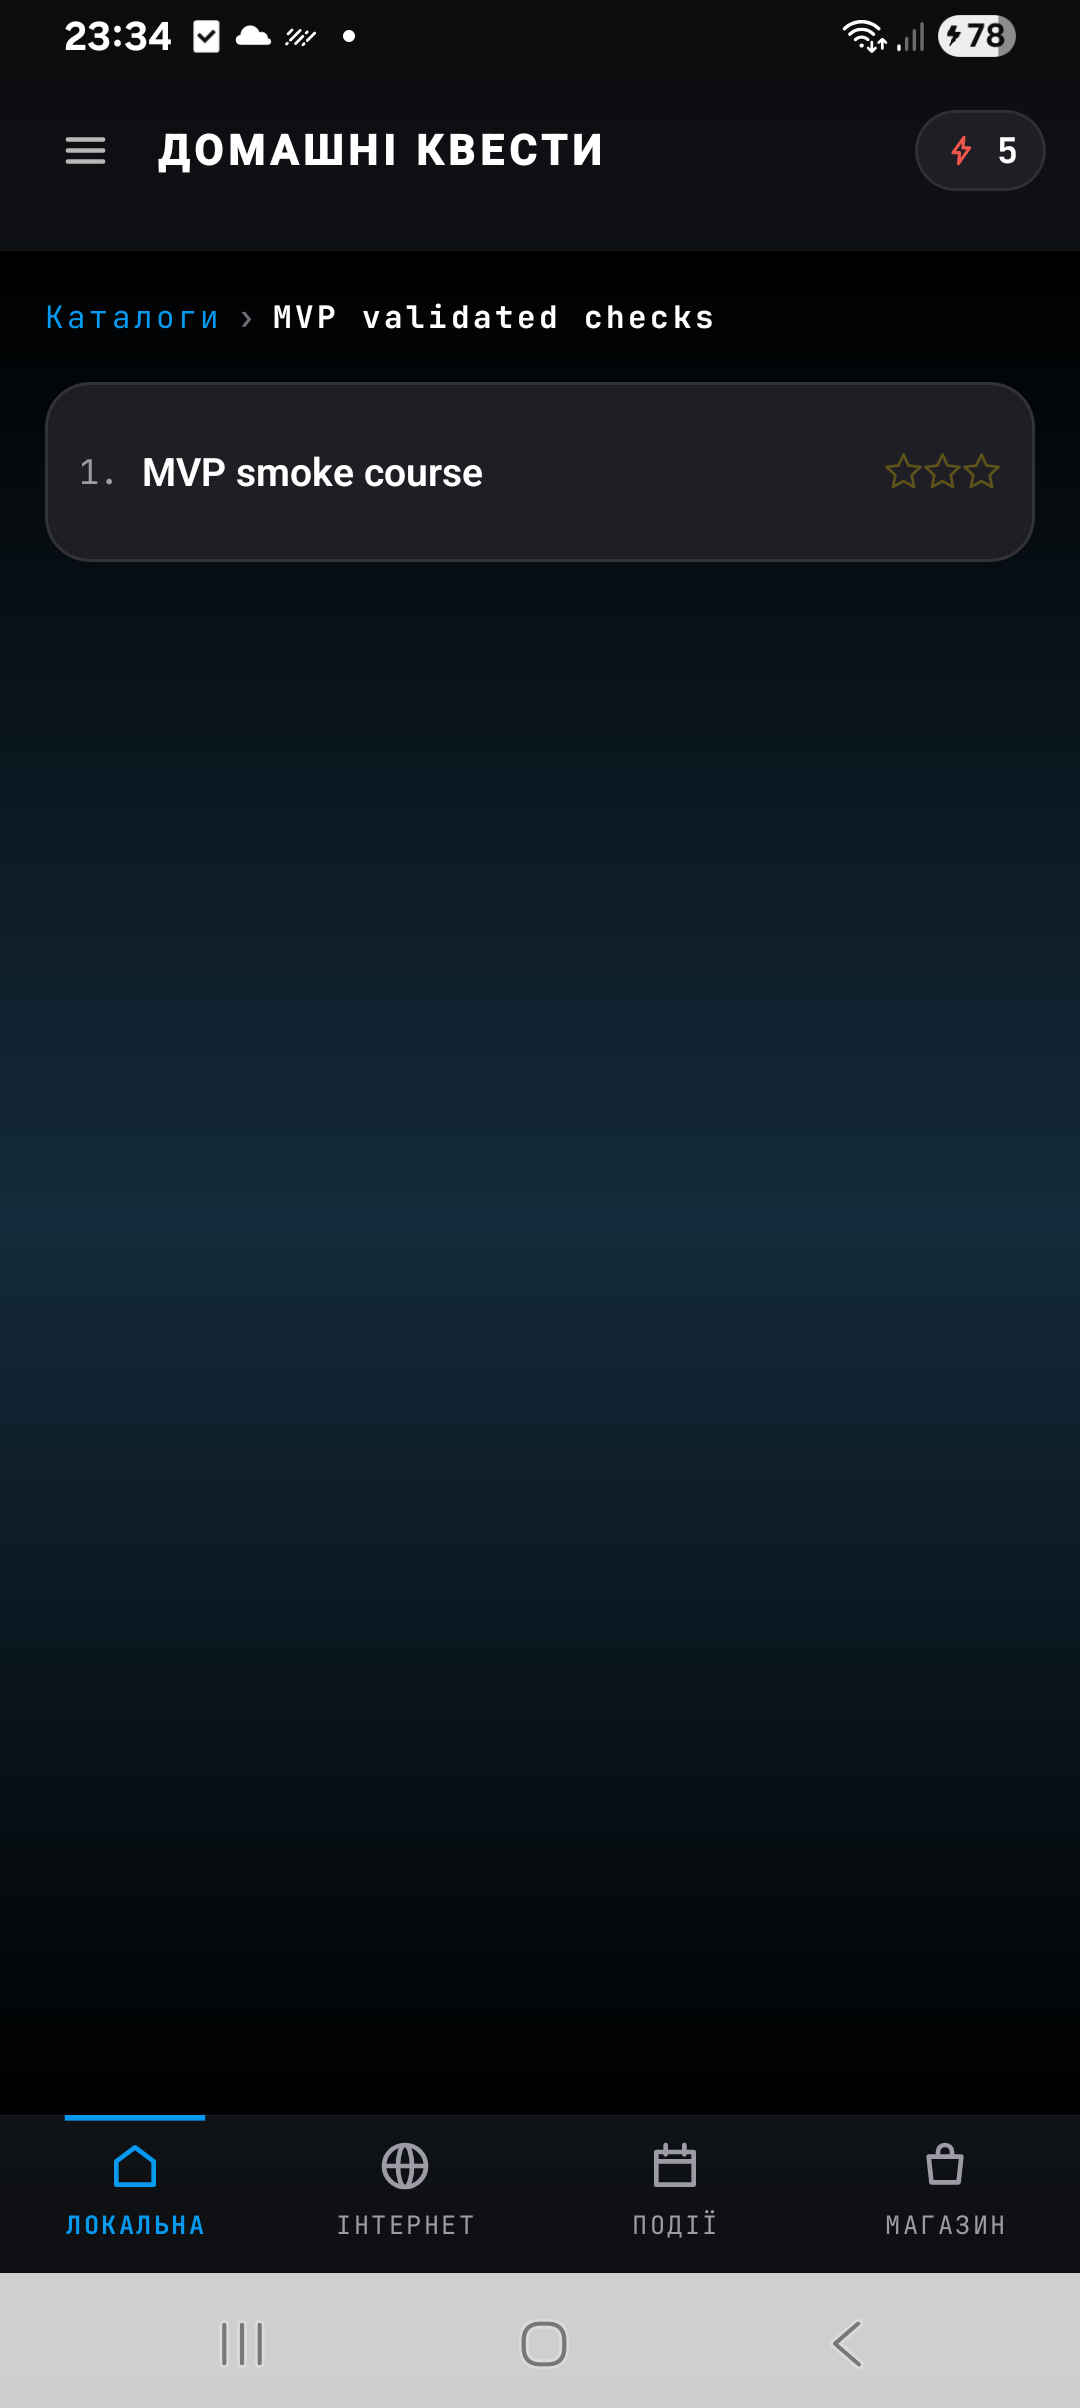
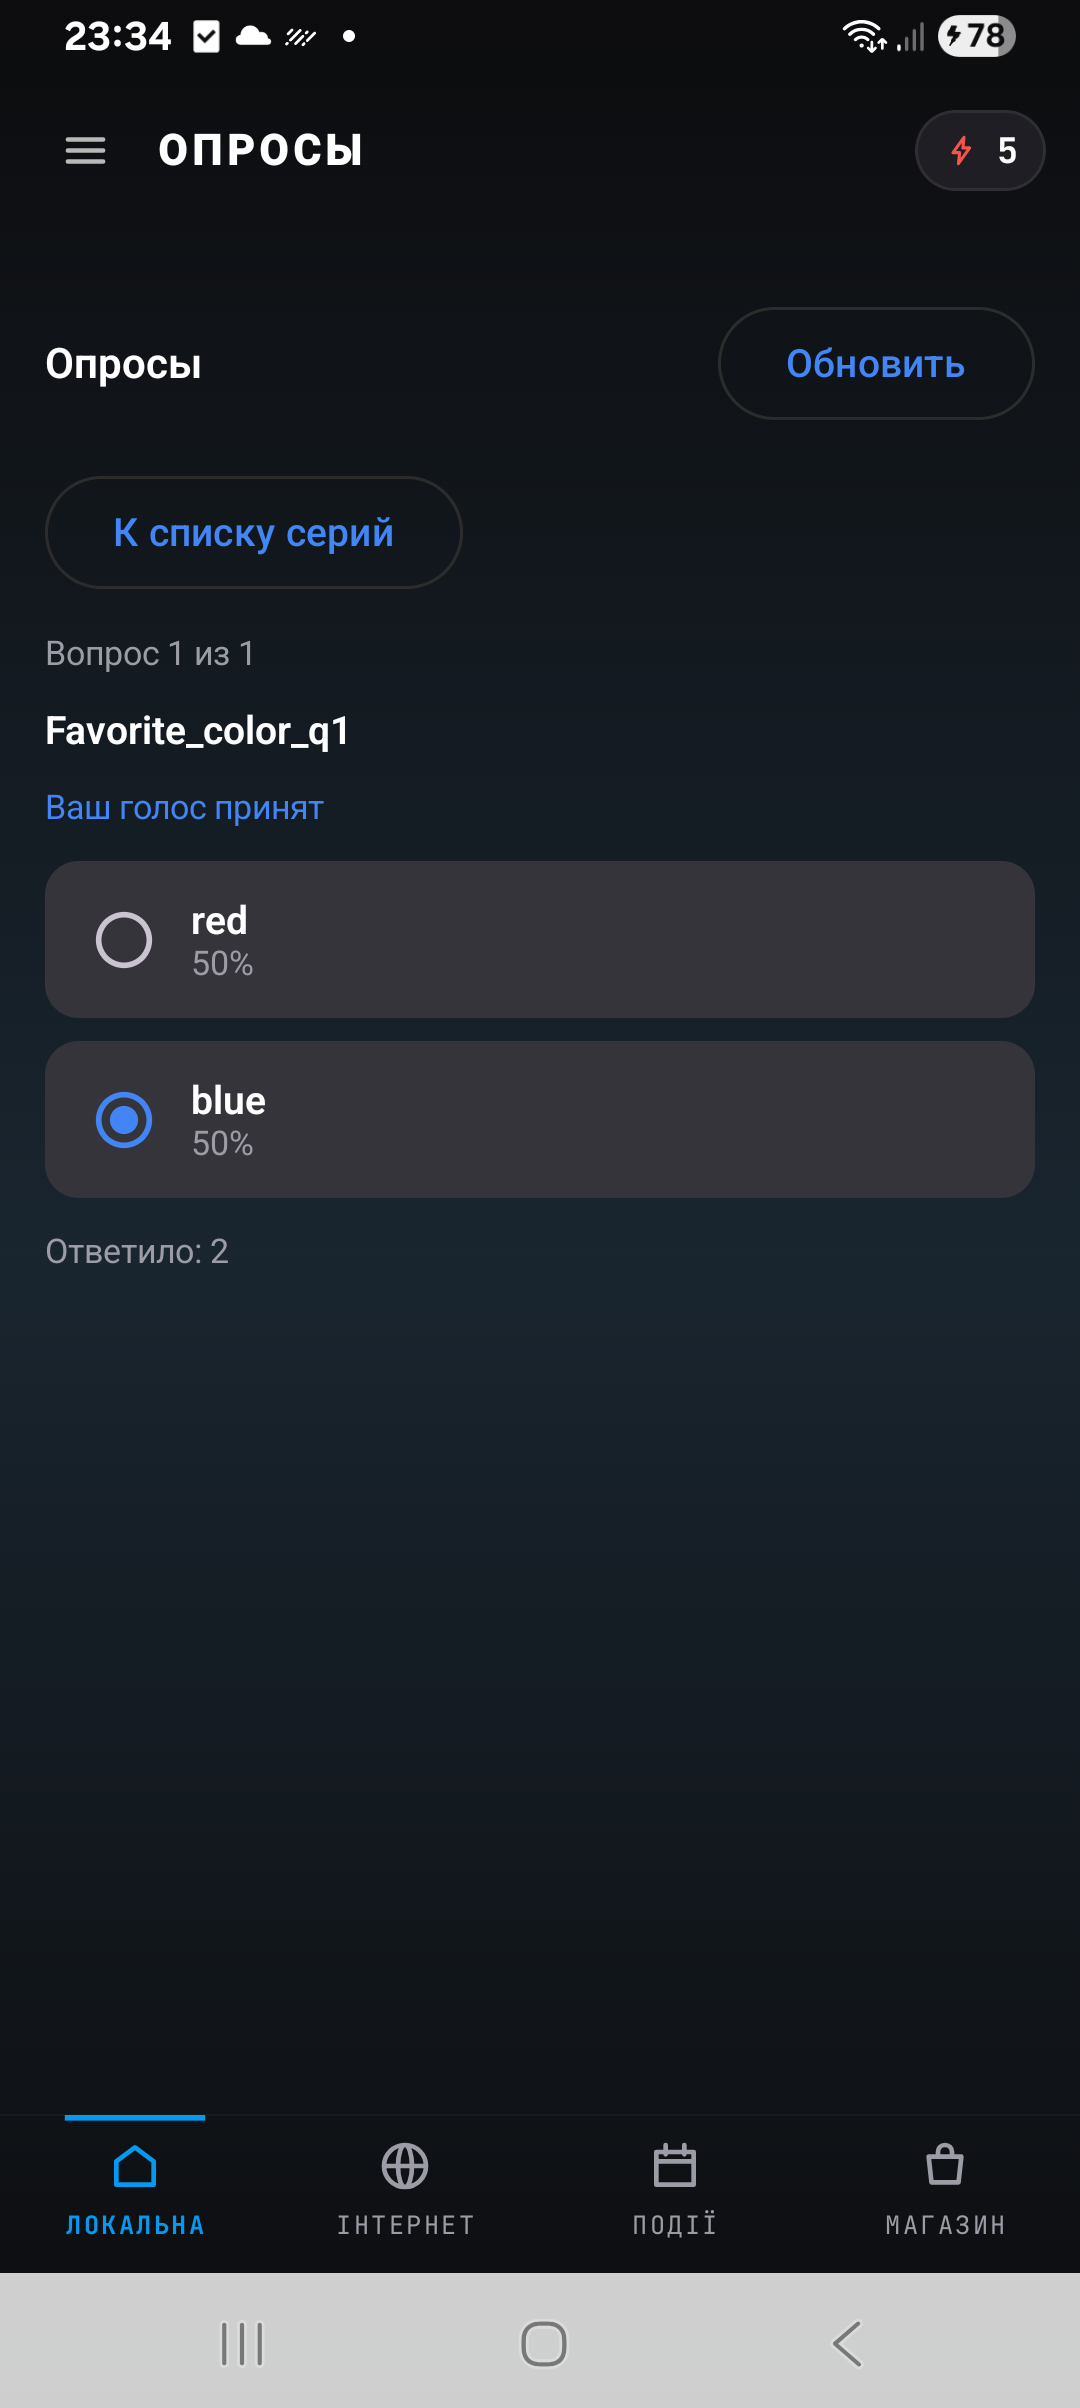
fix(polls): vote mutation key carries the respondent (UX-O7 §2 amendment) — second participant no longer denied; two-device 8.4 verified 50/50

diff --git a/docs/agents/evidence/2026-10-18-pixel-social/polls/README.md b/docs/agents/evidence/2026-10-18-pixel-social/polls/README.md
@@ -1,8 +1,8 @@
 # Poll series run (8.4) — device proof on TWO phones — 2026-10-18 late evening
 
 Devices: Pixel 10 Pro (UserG9FY6E, uid VLqW…) + Samsung A14 SM-A145F (fresh install of the
-same 4.0.0-isolated build d0c59bfc…, new anonymous account UserOVDSRF), both over the live
-device→VPS transport. Evidence shots 01–08 in this directory.
+same 4.0.0-isolated build, new anonymous account UserOVDSRF), both over the live
+device→VPS transport. Evidence shots 01–09 in this directory.
 
 ## What PASSED
 
@@ -21,30 +21,31 @@ device→VPS transport. Evidence shots 01–08 in this directory.
 - **Second participant, second account, second device** (08): the Samsung (fresh anonymous
   uid) saw the same series, selected blue, voted.
 
-## What FAILED — real defect (blocks 8.4 completion)
+## What FAILED first — real defect (was blocking 8.4 completion)
 
-The Samsung's vote never lands: the outbox attempt returns «Unknown», and the server's
-idempotency gate denies it with **"mutationId belongs to another account"**
+The Samsung's vote never landed: the outbox attempt returned «Unknown», and the server's
+idempotency gate denied it with **"mutationId belongs to another account"**
 (functions/mutation-queue.js gateVerdict → belongsTo → DECISION_DENIED).
 
-Root cause: the vote idempotency key has no respondent dimension.
+Root cause: the vote idempotency key had no respondent dimension.
 - Client: `PollOutboxWriters.voteSourceId` = `series-<id>-r<rev>-q<index>` and
   `OutboxOperations.mutationKey = operation + "-" + sourceId` — so EVERY participant voting on
-  the same question derives the SAME mutationId (`polls-SUBMIT_VOTE-series-poll-kv3iqzrra7yd-r1-q0`).
-- Server: the first delivery reserves that key under the first participant's uid; every other
-  participant is then denied as a foreign replay (which also means they can never vote, while
-  the first participant's retry stays correctly deduplicated).
-- Consequence: «percentages over distinct respondents per question» (AD-28/UX-O7 §3) can never
-  exceed one respondent through the app. On ONE device everything passes; the second
-  participant is exactly what breaks.
+  the same question derived the SAME mutationId.
+- Server: the first delivery reserved that key under the first participant's uid; every other
+  participant was then denied as a foreign replay.
+- Consequence: «percentages over distinct respondents per question» (AD-28/UX-O7 §3) could
+  never exceed one respondent through the app.
 
-Fix direction (owner decision on the key contract, UX-O7 §2): include the respondent in the
-vote sourceId (e.g. `series-<id>-r<rev>-q<idx>-<uid>`) — per-participant retry dedup is kept,
-and the per-participant uniqueness of the vote document itself stays with the deterministic
-vote doc id the receiver writes. Server retry ceilings/receipts unchanged.
+## RESOLUTION (same night) — fix applied and verified on two devices
 
-## Status
+The vote sourceId now carries the respondent:
+`series-<id>-r<rev>-q<idx>-u<uid>` (PollOutboxWriters.voteSourceId; UX-O7 §2 amended in the
+contract with a pending-owner note; contract test UxO7PollVoteIdentityContractTest gained a
+per-participant regression, PollOutboxWritersTest updated). Rebuilt APK sha256 9d0908c0…,
+installed fresh on the Samsung (pm clear → new uid dJgxj3m64t…, UserOVDSRF).
 
-8.4 stays blocked with a PRECISE defect: not a test failure — a key-contract gap that one
-device cannot expose and two devices catch immediately. The one-device journey (author →
-publish → hidden distribution → vote → confirmed → revealed) is fully proven and recorded.
+Result (09-two-participants-50-50.png): the Samsung voted blue with its OWN key —
+`mutation_keys` shows TWO completed SUBMIT_VOTE entries with different uids — and the question
+screen reads «Ваш голос принят: red 50% / blue 50%, Ответило: 2». Retry dedup stays per
+participant by the same key formula (§6.1). 8.4 → done, pending the owner's nod on the §2
+wording.
